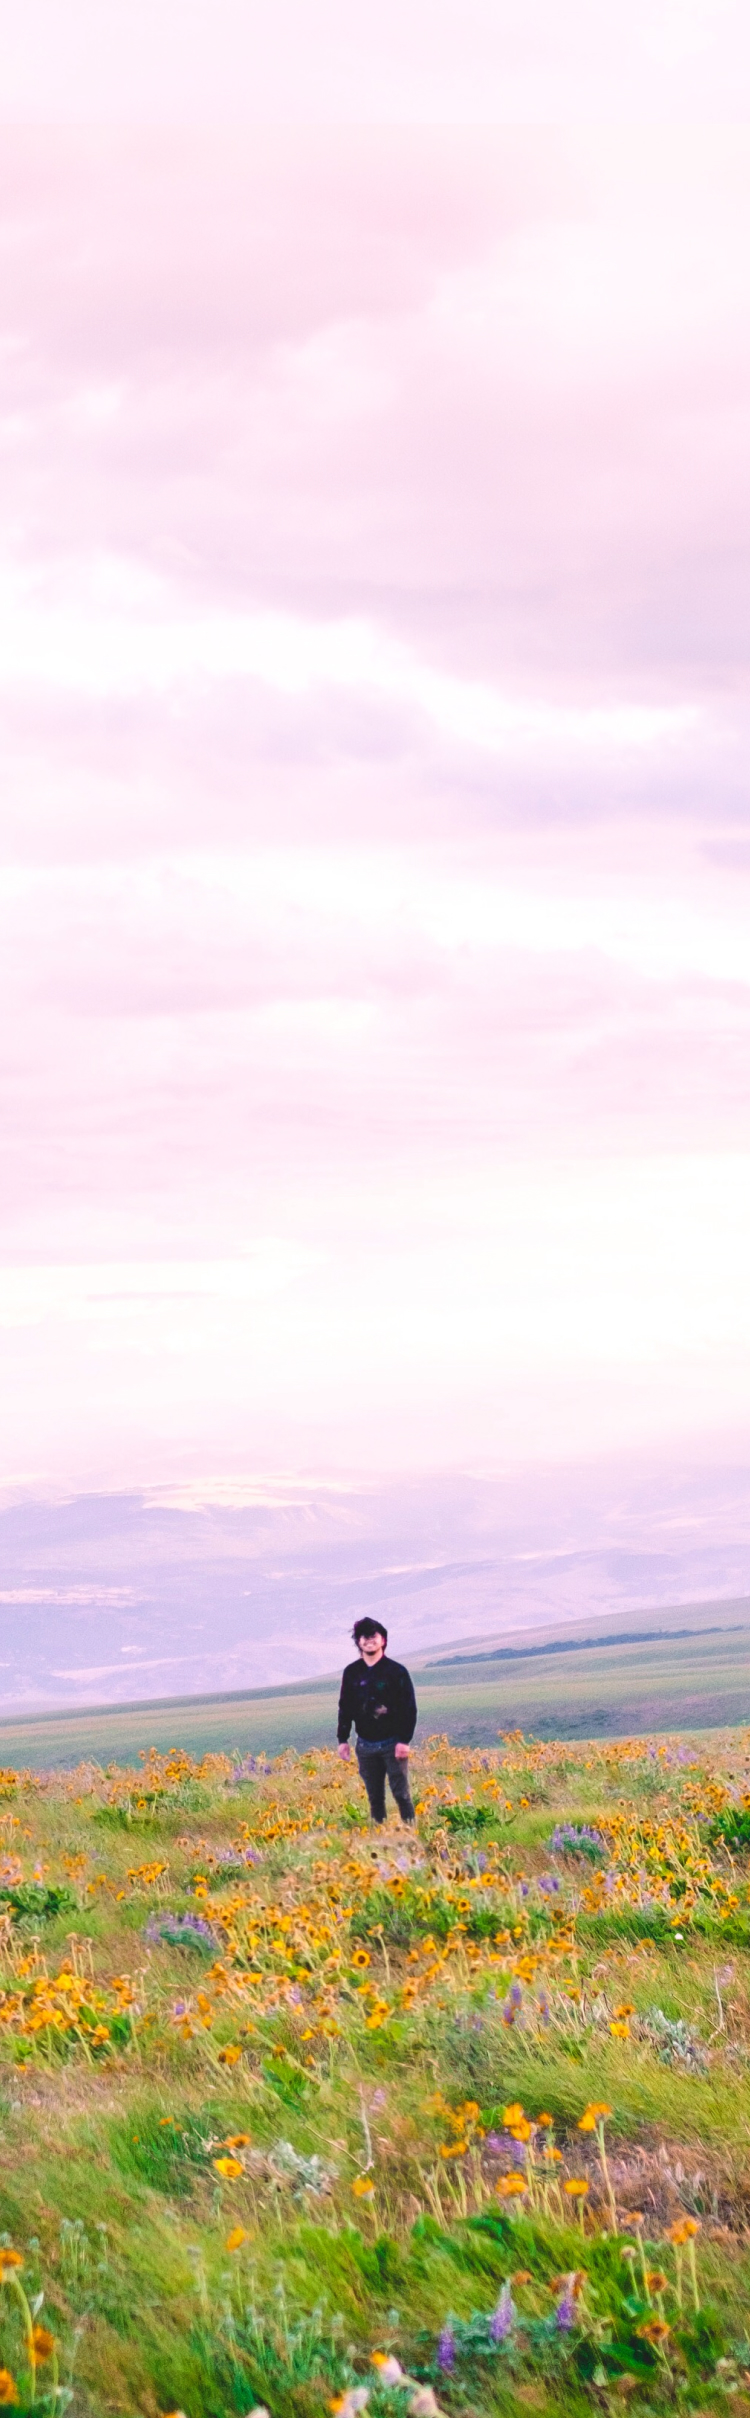
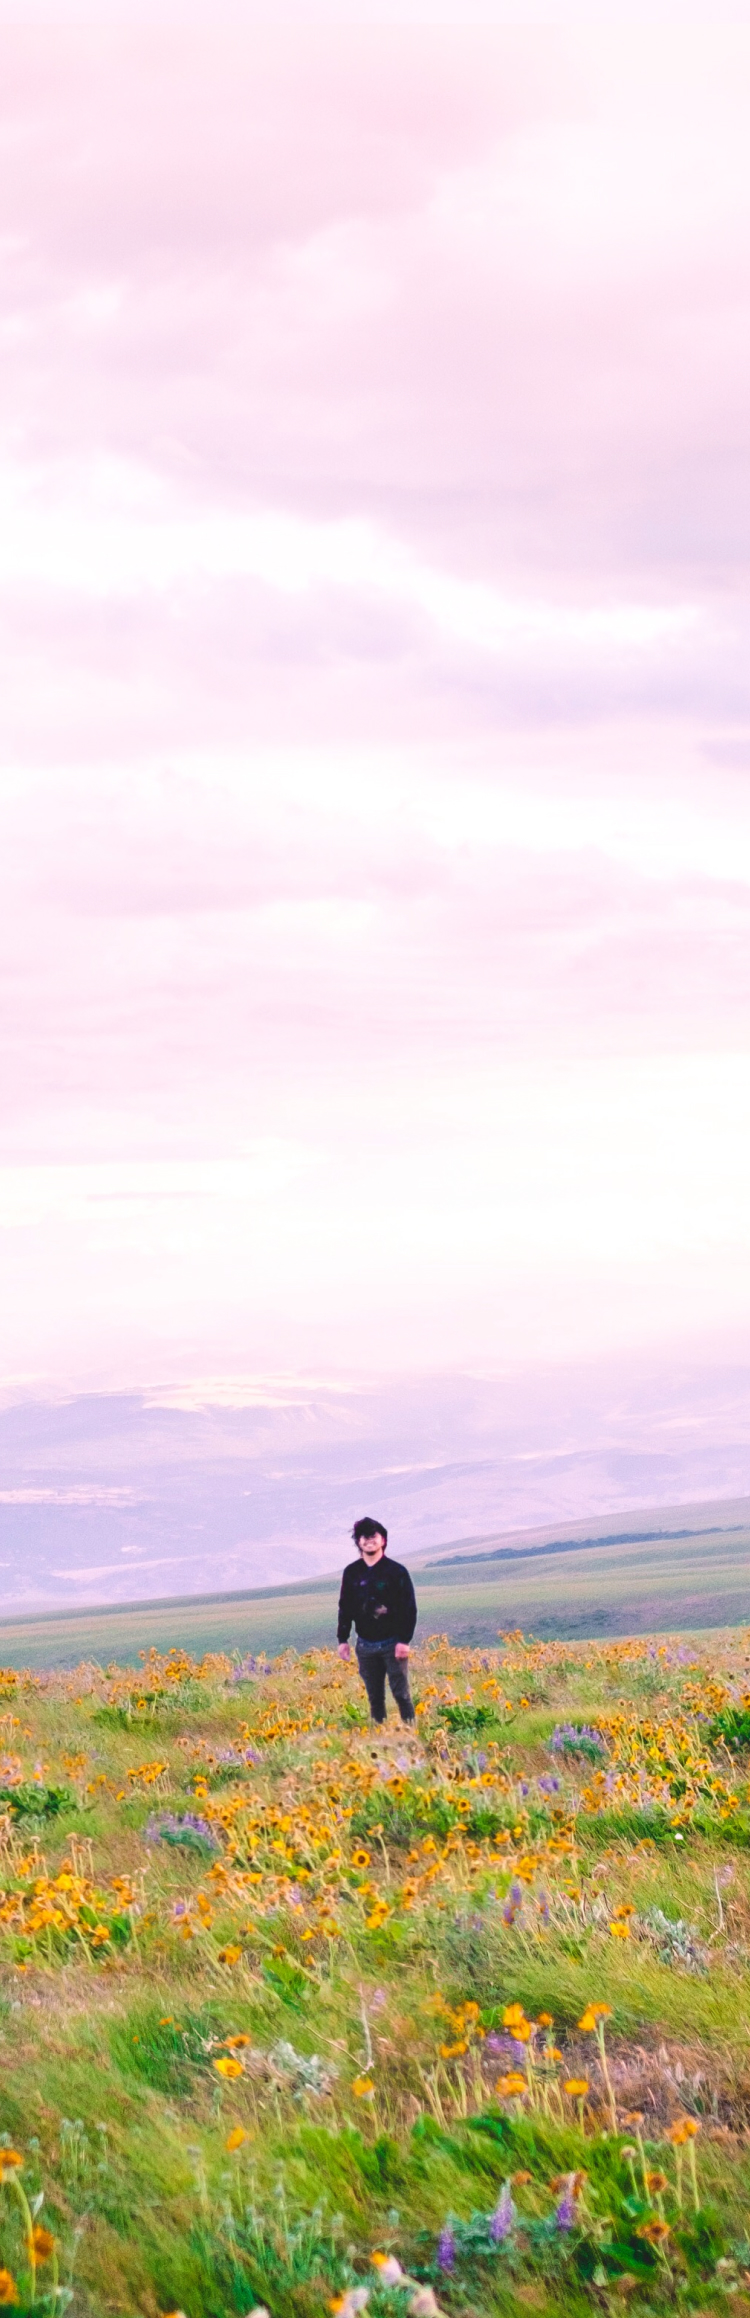
Content: about page

diff --git a/assets/pages/about.html b/assets/pages/about.html
@@ -64,10 +64,26 @@
 
     <!-- hero -->
     <section class="container-fluid px-0">
-        <div class="row align-items-center">
-            <div class="col-lg-12 px-0">
-                <img class="d-none d-md-block img-fluid heroD w-100" src="/assets/imgs/about-heroD.jpg" alt="">
-                <img class="d-md-none img-fluid heroM w-100" src="/assets/imgs/about-heroM.jpg" alt="">
+        <div class="row  ">
+            <div class="heroA col-12 col-md-12 d-flex flex-column justify-content-start justify-content-md-start align-items-center mt-5 ">
+                <div class="about text-start col-11 col-md-7 px-1 px-md-5 mt-2 pt-2">
+                    <div class="">
+                        <p class="lead">A creative; a Mexican-American; an experiencer of the pursuit of happiness and equality – realizing big UX dreams in Portland, OR. </p>
+                    </div>
+                    <div class="">
+                        <p class="lead">I was born in Mexico City and immigrated to Seattle in my infancy; my family being the first of our kin to come to America, in search of opportunity and a brighter future. Living across Washington state for most of my life had cultivated a strong desire to explore more of the beautiful Pacific Northwest. Once I finished college, I followed the trail of inspiration all the way to Portland, where my creativity flourished.</p>
+                    </div>
+                </div>
+                <!-- <div class="heroM d-md-none">
+                    <div class="">
+                        <p class="lead">A creative; a Mexican-American; an experiencer of the pursuit of happiness and equality – realizing big UX dreams in Portland, OR. </p>
+                    </div>
+                    <div class="">
+                        <p class="lead">I was born in Mexico City and immigrated to Seattle in my infancy; my family being the first of our kin to come to America, in search of opportunity and a brighter future. Living across Washington state for most of my life had cultivated a strong desire to explore more of the beautiful Pacific Northwest. Once I finished college, I followed the trail of inspiration all the way to Portland, where my creativity flourished.</p>
+                    </div>
+                </div> -->
+                <!-- <img class="d-none d-md-block img-fluid heroD w-100" src="/assets/imgs/about-heroD.jpg" alt="">
+                <img class="d-md-none img-fluid heroM w-100" src="/assets/imgs/about-heroM.jpg" alt=""> -->
             </div>
         </div>
     </section>
@@ -75,13 +91,13 @@
     <!--footer-->
        <section class="px-0">
         <footer id="mainFooter" class="row align-items-center">
-            <div class="row align-items-start justify-content-center mx-auto">
-                <div class="col-md-5 mt-1 mb-4 mt-md-0 mb-md-2 text-center">
+            <div class="row align-items-center justify-content-center mx-auto">
+                <div class="col-md-5 my-1 pt-md-1 mt-md-2 mb-md-1 text-center">
                     <div class="row justify-content-center">
-                            <div class="col-10 col-lg-8 about mb-md-0 m-sb">
-                                <a href=""><img src="/assets/imgs/resume-icon.png" alt="Download Resume" title="Download Resume" class="mx-3 mb-3 mb-md-4 icon"></a>
-                                <a href=""><img src="/assets/imgs/email-icon.png" alt="Email Me" title="Email Me" class="mx-3 mb-3 mb-md-4 icon"></a>
-                                <a href=""><img src="/assets/imgs/ig-icon.png" alt="Follow on Instagram" title="Follow on Instagram" class="mx-3 mb-3 mb-md-4 icon"></a>
+                            <div class="d-flex col-9 col-lg-8 about justify-content-md-center justify-content-around mb-md-0">
+                                <a href=""><img src="/assets/imgs/resume-icon.png" alt="Download Resume" title="Download Resume" class="mx-2 mx-md-3 px-0 my-2 mb-md-4 mt-md-3 iconF"></a>
+                                <a href=""><img src="/assets/imgs/email-icon.png" alt="Email Me" title="Email Me" class="mx-2 mx-md-3 my-2 mb-md-4 mt-md-3 iconF"></a>
+                                <a href=""><img src="/assets/imgs/ig-icon.png" alt="Follow on Instagram" title="Follow on Instagram" class="mx-2 mx-md-3 px-0 my-2 mb-md-4 mt-md-3 iconF"></a>
                         </div>
                     </div>
                 </div>

diff --git a/assets/styles/app.css b/assets/styles/app.css
@@ -3,21 +3,15 @@ body {
     font-family: 'Noto Sans', sans-serif;
 }
 
-.heroD {
-    background-image: url(./assets/imgs/about-heroD.jpg);
+.heroA {
+    background-image: url(/assets/imgs/about-heroD.jpg);
     background-size: cover;
     height: 113vh;
-    width: 100vw;
+    width: 110vw;
     background-position: center;
 }
 
-.heroM {
-    background-image: url(./assets/imgs/about-heroM.jpg);
-    background-size: cover;
-    height: 113vh;
-    width: 100vw;
-    background-position: center;
-}
+
 
 .blurb h2 {
    color: #004B6A;
@@ -45,8 +39,8 @@ body {
     color: #071D27;
     font-weight: 300;
     font-size: 1.125rem;
-    line-height: 2;
-
+    line-height: 2.2;
+    margin-top: 8%;
 }
 
 #hume {
@@ -95,9 +89,15 @@ body {
     font-size: 1.8rem;
     color: #004B6A;
 }
+
 .icon {
     width: 50px;
     margin: 30px;
+}
+
+.iconF{
+    width: 50px;
+    margin-top: 30px
 }
 
 .icon:hover {
@@ -149,10 +149,8 @@ nav:hover {
 }
 
 
-#mainFooter h2 {
-    color: #fb7b57;
-    font-weight: 100;
-    font-size: 1.7rem;
+#mainFooter {
+
 }
 
 .collapsing {
@@ -201,6 +199,27 @@ nav:hover {
     }
     .designP {
         width: 48%;
+    }
+
+    .about p {
+        color: #071D27;
+        font-weight: 300;
+        font-size: 1.32rem;
+        line-height: 2.1;
+        margin-top: 8%;
+    }
+
+    .heroA {
+        background-image: url(/assets/imgs/about-heroM.jpg);
+        background-size: cover;
+        height:173vh;
+        width: 110vw;
+        background-position: center;
+    }
+    .iconF{
+        width: 50px;
+        margin: 50px;
+
     }
 }
 
